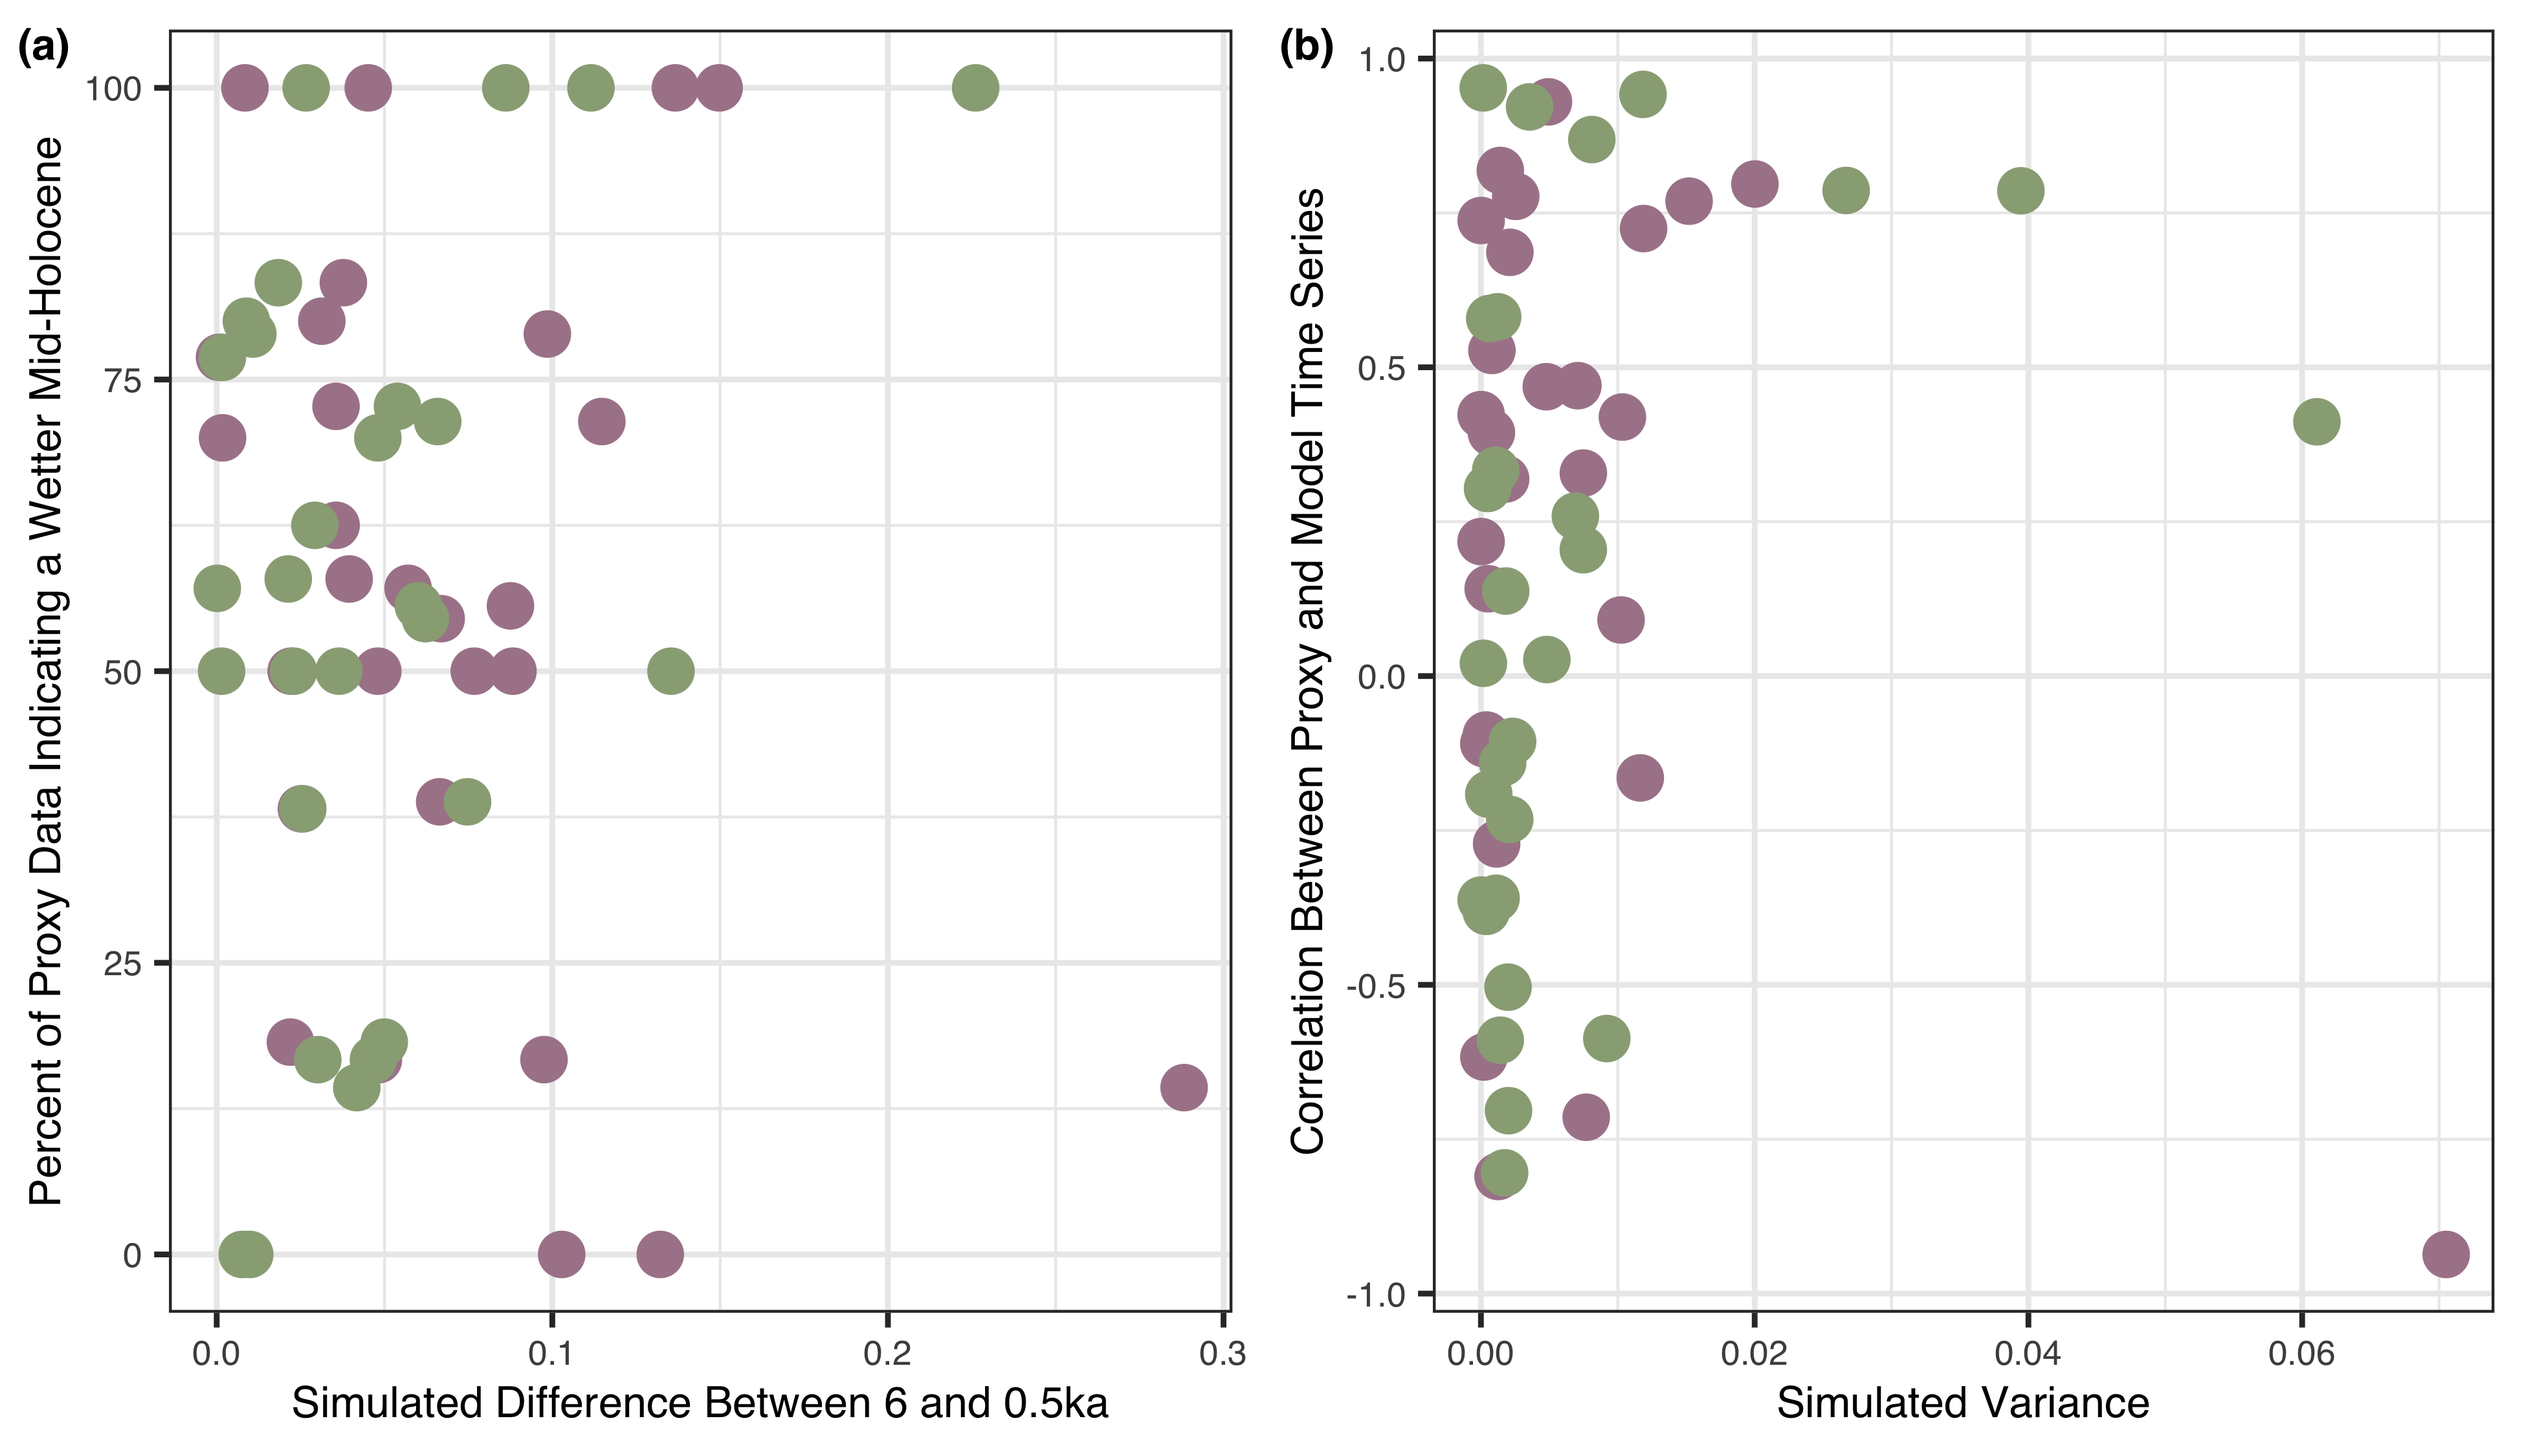
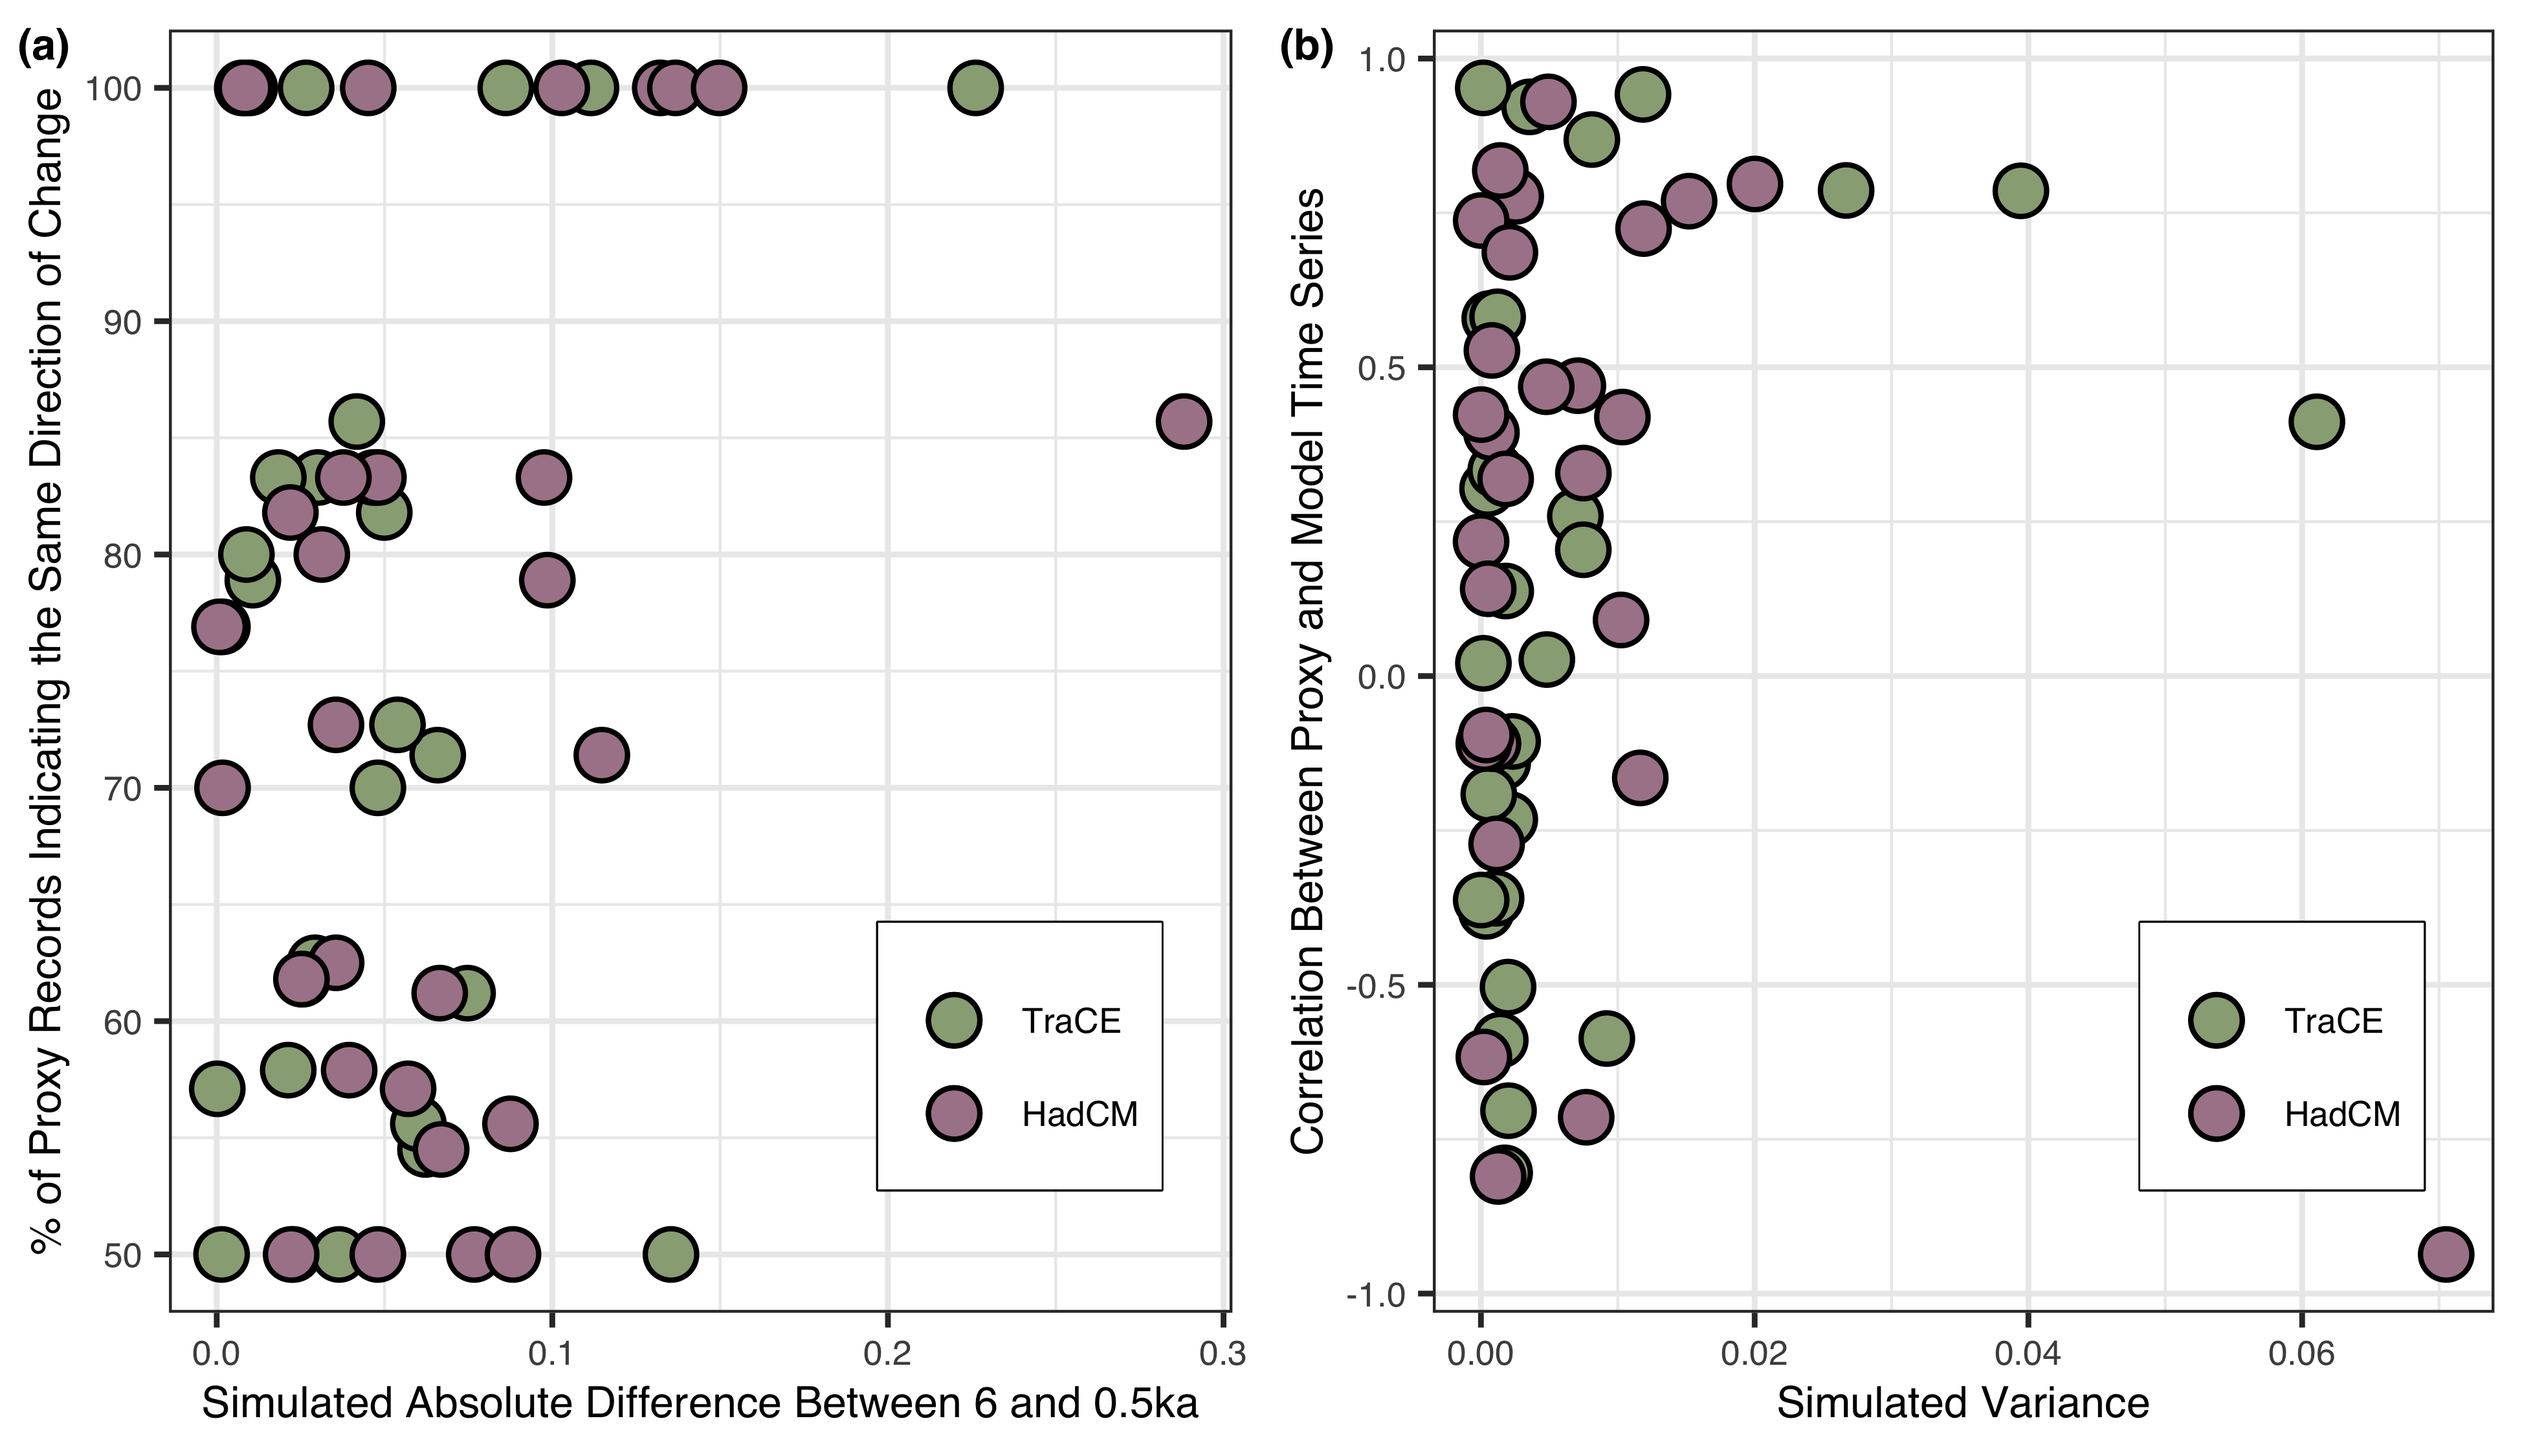
commit

diff --git a/Scripts/python/correlation_transient.py b/Scripts/python/correlation_transient.py
@@ -40,8 +40,8 @@ times = [0,12]
 szn = 'ANN'
 v_1 = 'p-e'
 v_2 = 'tas'
-m_1 = 'hadcm'
-m_2 = 'hadcm'
+m_1 = 'trace'
+m_2 = 'trace'
 #import seaborn as sns
 #sns.palplot(sns.color_palette("BrBG", 7))
 from matplotlib.colors import LinearSegmentedColormap
@@ -68,7 +68,11 @@ if m_1 == m_2:
 else: 
     lats,lons = modelData[m_1][szn]['lat_regrid'],modelData[m_1][szn]['lon_regrid']
     name = 'multi'+'_'+v_1+'_'+v_2+'_'+szn
+import cmasher as cmr
 
+cramp = LinearSegmentedColormap.from_list('cramp',['#40004b','white','#00441b'],N=30)
+cramp = cmr.get_sub_cmap(cramp,0.1,0.9,N=20)
+ 
 proxy= pd.read_csv(dataDir+'Data/'+'HC_T_RegionalProxyEnsCorrelations.csv')
 refReg = rm.defined_regions.ar6.all
     #Calculate Proxy Percents for regions
@@ -79,46 +83,52 @@ for reg in proxy.columns.values.tolist()[1:]:
     pltlons.append(refReg.centroids[refReg.abbrevs.index(reg)][0])
     pltRegs.append(reg) 
     #
-plt.style.use('default')
+    
+plt.figure(figsize=(6,3.01))
 gs = gridspec.GridSpec(12,8)
 ax = plt.subplot(gs[0:12,0:6],projection=ccrs.Robinson()) 
-#ax1 = refReg[pltRegs].plot(projection=ccrs.Robinson(),add_label=False,line_kws=dict(linewidth=1))
-#ax.ax1
-plt.title('r-values: '+m_1+' ('+szn+') ('+v_1+':'+v_2+')')
-ax.set_global()
-ax.coastlines(lw=0.5)
+#ax = plt.subplot(projection=ccrs.Robinson())     
+refRegLand = rm.defined_regions.ar6.land
+refRegLand.plot_regions(ax=ax,add_label=False,line_kws=dict(linewidth=0.7))
 data_cyclic,lon_cyclic = cutil.add_cyclic_point(rVals,coord=lons)
 model_contour = plt.contourf(lon_cyclic,lats, data_cyclic,transform=ccrs.PlateCarree(),
-                             levels=mlevels,cmap=cramp)  
+                             vmin=-1,vmax=1,cmap=cramp,levels=20)  
 ax.scatter(pltlons,pltlats,c=pltVals,transform=ccrs.PlateCarree(),
-           cmap=cramp,alpha=1,vmin=-1,vmax=1,s=50,ec='k',lw=1.5)#plt.cm.get_cmap('BrBG',5),
+           cmap=cramp,vmin=-1,vmax=1,s=40,ec='k',lw=2)
+ax.set_global()
+ax.annotate('(a)',xy=(0, 0), xycoords='data', xytext=(0.05, 0.95), 
+            textcoords='axes fraction', fontsize=8, fontfamily = 'Arial')
+cbar = plt.colorbar(model_contour,orientation="horizontal",ticks=[-1,-0.6,-0.3,0,0.3,0.6,1],
+                        fraction=0.04, pad=0.04,aspect=30)
+cbar.set_label('Pearson Correlation Coefficient')
+cbar.ax.set_xticklabels([-1,-0.6,-0.3,0,0.3,0.6,1],fontsize=8)
 
-cm = plt.cm.get_cmap(cramp,10)
-plt.colorbar(model_contour,cax=inset_axes(ax,width='70%',height="6%",loc=8),orientation="horizontal")
-
+#Save or show
 
 mask = rm.defined_regions.natural_earth.land_110.mask_3D(lons,lats).squeeze('region').data
 
-ax1 = plt.subplot(gs[3:9,6:8]) 
+ax1 = plt.subplot(gs[2:11,6:8]) 
 rValsLand = np.full(np.shape(rVals),np.NaN) 
 for lat in range(len(lats)):
     for lon in range(len(lons)):
         if mask[lat,lon]: rValsLand[lat,lon] = rVals[lat,lon]
-              
-ax1.axvline(x=0,color='grey',lw=0.5)
+ax1.annotate('(b)',xy=(0, 0), xycoords='data', xytext=(-0.2, 0.95), 
+            textcoords='axes fraction', fontsize=8, fontfamily = 'Arial')
+ax1.axvline(x=0,color='black',lw=0.5)
 for i in range(-90,91,30):
-    ax1.axhline(y=i,color='grey',lw=0.2)
-ax1.axhline(y=0,color='grey',lw=0.5)
-ax1.axis([mlevels[0],mlevels[-1],lats[-2],lats[1]])
+    ax1.axhline(y=i,xmin=0,xmax=0.05,color='grey',lw=0.3)
+    ax1.axhline(y=i,xmin=0.95,xmax=1,color='grey',lw=0.3)
 
-ax1.plot(np.nanmean(rVals, axis=1) ,lats,c='k',lw=1.5)
-ax1.scatter(pltVals,pltlats,c='midnightblue',s=5)#plt.cm.get_cmap('BrBG',5),
+ax1.axis([mlevels[0],mlevels[-1],lats[-2],lats[1]])
 
 x = np.nanmean(rValsLand, axis=1) 
 x[np.isnan(x)] = 0
-ax1.plot(x,lats,c='darkgreen',lw=1.5)
-
-ax1.set_xticks([])
+ax1.plot(np.nanmean(rVals,axis=1) ,lats,c='darkslategrey',lw=1.9)
+ax1.plot(x,lats,c='darkgoldenrod',lw=1.9)
+ax1.scatter(pltVals,pltlats,c='k',s=7)#plt.cm.get_cmap('BrBG',5),
+ax1.spines['right'].set_visible(False);ax1.spines['left'].set_visible(False)
+ax1.set_xticks([-1,0,1])
+ax1.set_yticklabels([-1,0,1],fontsize=8)
 ax1.set_yticks([])
 ax1.set_yticklabels([])
 if save: plt.savefig(dataDir+'Figures/Model/TransientCorrelations/'+name+'.png',

diff --git a/Scripts/python/3_ModelDataToPseudoproxies.py b/Scripts/python/3_ModelDataToPseudoproxies.py
@@ -21,10 +21,10 @@ import cartopy.crs as ccrs              # Packages for mapping in python
 import cartopy.feature as cfeature
 #import cartopy.util as cutil
 #
-dataDir  = '/Volumes/GoogleDrive/My Drive/zResearch/Manuscript/HoloceneHydroclimate/'
+dataDir  = '/Volumes/GoogleDrive/My Drive/zResearch/Manuscript/HoloceneHydroclimate/HoloceneHydroclimate/'
 #
 save=False
-data_HC =  pd.read_csv(dataDir+'HoloceneHydroclimate/Data/proxyMetaData_T.csv')
+data_HC =  pd.read_csv(dataDir+'/Data/proxyMetaData_HC.csv')
 #data_T =  pd.read_csv(gitHubDir+'DataFiles/proxyT.csv')
 
 
@@ -32,7 +32,7 @@ data_HC =  pd.read_csv(dataDir+'HoloceneHydroclimate/Data/proxyMetaData_T.csv')
 #Load Model Data
 #
 #Set time variables and resolution of data
-ageMin=0; ageMax=12000; ageRes=200
+ageMin=0; ageMax=12000; ageRes=100
 timebin = [*range(ageMin,ageMax+1,ageRes)]
 
 #Model variable names and conversion to common time/variable units (generally mm/day)

diff --git a/Scripts/python/HistogramOfWettestCentury.py b/Scripts/python/HistogramOfWettestCentury.py
@@ -60,7 +60,7 @@ for i in ['Wet','Dry']:
         ax = plt.subplot(gs[row:row+1,col:col+1])
         ax.bar(np.linspace(0.5, 11.5,12),
                100*np.histogram(vals[model+'_'+i+'_all'].flatten(),bins=12,range=[0,12000])[0]/total,  
-               width=1,label='All Gridcells', color = 'lightgrey', edgecolor='k',lw= 1)
+               width=1,label='All Grid Cells', color = 'lightgrey', edgecolor='k',lw= 1)
         ax.bar(np.linspace(0.5, 11.5,12),
                100*np.histogram(vals[model+'_'+i+'_land'].flatten(),bins=12,range=[0,12000])[0]/total,  
                width=1,label='Land Only', color = c, alpha=0.8,edgecolor='k',lw= 1)
